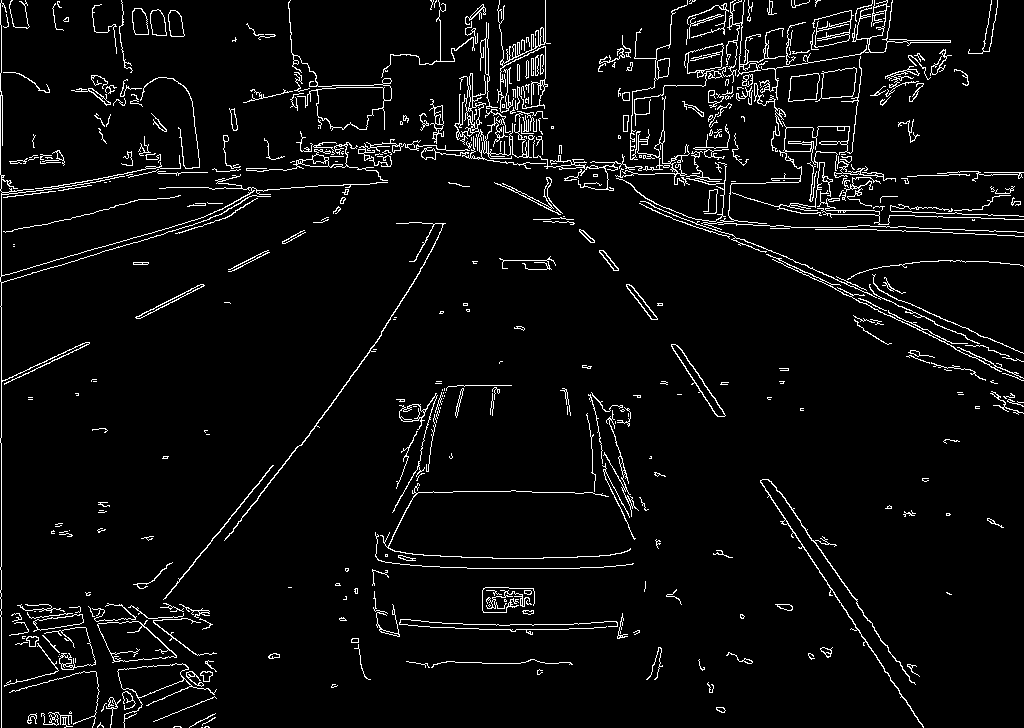
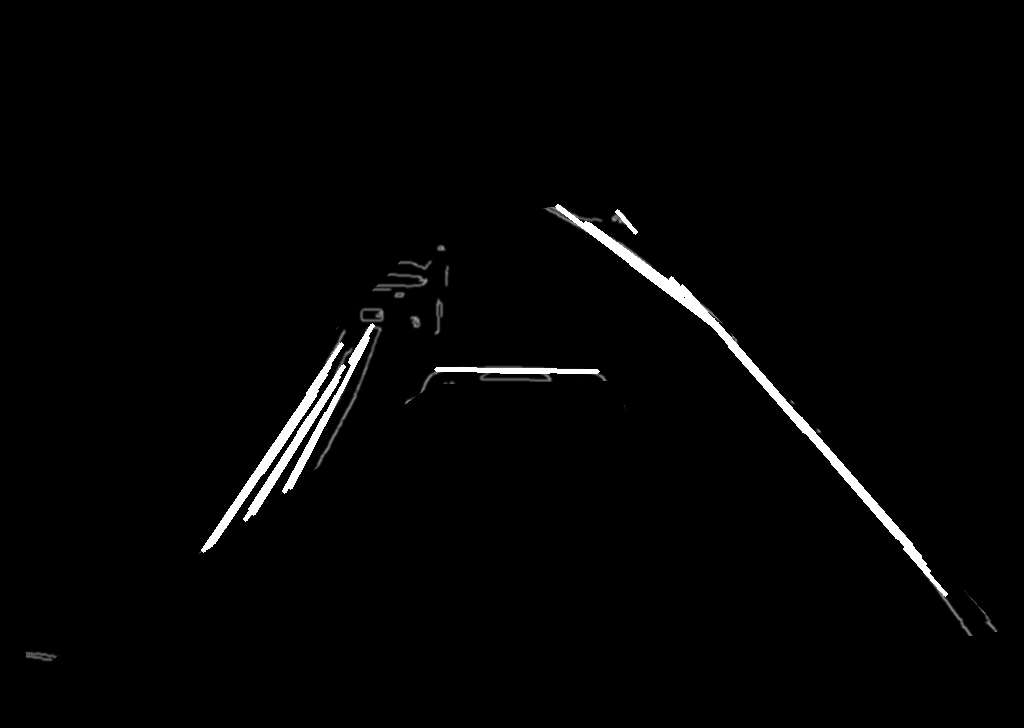
"Added an average and extrapolating function for lanes"

diff --git a/main.py b/main.py
@@ -5,22 +5,63 @@ import cv2
 from IPython.display import Image
 import pyautogui
 from directkeys import PressKey, W, A, S, D
+import math
 
-def draw_lanes(img, lines, color=[0, 200, 0], thickness=3):
+def mathfunc(x1,y1,x2,y2):
 
-    if lines is not None:
+    slope = (y2-y1)/(x2-x1)
+    intercept = y1 - slope*x1
+    line_length = np.sqrt((y2-y1)**2+(x2-x1)**2)
+    return(slope,intercept,line_length)
 
-        imG = np.copy(img)
-        line_img = np.zeros((img.shape[0], img.shape[1], 3), dtype=np.uint8,)
-        # Loop over all lines and draw them on the blank image.
-        for line in lines:
-            for x1, y1, x2, y2 in line:
-                cv2.line(line_img, (x1, y1), (x2, y2), color, thickness)
+def to_keep_index(obs, std=1.5):
+    return np.array(abs(obs - np.mean(obs)) < std*np.std(obs))
 
-        img = cv2.addWeighted(img, 0.8, line_img, 1.0, 0.0)
-        return(img)
-    else:
-        return
+def avg_lines(image,lines):
+
+    neg = np.empty([1,3])
+    pos = np.empty([1,3])
+
+    ## calculate slopes for each line to identify the positive and negative lines
+    for line in lines:
+        for x1,y1,x2,y2 in line:
+            slope,intercept,line_length = mathfunc(x1,y1,x2,y2)
+            if slope < 0 and line_length > 10:
+                neg = np.append(neg,np.array([[slope, intercept, line_length]]),axis = 0)
+            elif slope > 0 and line_length > 10:
+                pos = np.append(pos,np.array([[slope, intercept, line_length]]),axis = 0)
+
+    ## just keep the observations with slopes with 2 std dev
+    neg = neg[to_keep_index(neg[:,0])]
+    pos = pos[to_keep_index(pos[:,0])]
+
+    ## weighted average of the slopes and intercepts based on the length of the line segment
+    neg_lines = np.dot(neg[1:,2],neg[1:,:2])/np.sum(neg[1:,2]) if len(neg[1:,2]) > 0 else None
+    pos_lines = np.dot(pos[1:,2],pos[1:,:2])/np.sum(pos[1:,2]) if len(pos[1:,2]) > 0 else None
+
+    AvgPositiveM  = pos_lines[0]
+    AvgLeftB      = pos_lines[1]
+    AvgNegitiveM  = neg_lines[0]
+    AvgRightB     = neg_lines[1]
+
+    imshape = image.shape
+    y_max   = imshape[0] # lines initial point at bottom of image
+    y_min   = 200
+
+    x1_Left = (y_max - AvgLeftB)/AvgPositiveM
+    y1_Left = y_max
+    x2_Left = (y_min - AvgLeftB)/AvgPositiveM
+    y2_Left = y_min
+
+    x1_Right = (y_max - AvgRightB)/AvgNegitiveM
+    y1_Right = y_max
+    x2_Right = (y_min - AvgRightB)/AvgNegitiveM
+    y2_Right = y_min
+
+    # define average left and right lines
+    cv2.line(image, (int(x1_Left), int(y1_Left)), (int(x2_Left), int(y2_Left)), [0,200,0], 10) #avg Left Line
+    cv2.line(image, (int(x1_Right), int(y1_Right)), (int(x2_Right), int(y2_Right)), [0,200,0], 10) #avg Right Line
+
 
 def draw_lines(img,lines):
     try:
@@ -29,6 +70,7 @@ def draw_lines(img,lines):
             cv2.line(img, (coords[0], coords[1]), (coords[2], coords[3]), [255,255,255], 3)
     except:
         pass
+
 
 def roi(img, vertices):
     mask = np.zeros_like(img)
@@ -41,22 +83,24 @@ def image_process(image):
 
     processedImage = cv2.cvtColor(image, cv2.COLOR_BGR2GRAY)
     processedImage =  cv2.Canny(processedImage, threshold1 = 100, threshold2=300)
-    cv2.imwrite('pre.png', processedImage)
+
     # For 3rd person vertices = np.array([[200,1000],[150,450],[400,225],[800,225],[850,450],[850,700],], np.int32)
     #From hood of car
-    vertices = np.array([[10,600],[50,500],[400,160],[600,160],[815,500],[850,600],], np.int32)
+    #vertices = np.array([[10,650],[100,500],[400,200],[625,200],[815,500],[850,650],], np.int32)
+    vertices = np.array([[433,383],[30,675],[25,650],[440,220],[610,200],[1000,630],[720,675],[615,380],], np.int32)
     processedImage = cv2.GaussianBlur(processedImage,(5,5),0)
     processedImage = roi(processedImage, [vertices])
 
     lines = cv2.HoughLinesP(processedImage, 1, np.pi/180, 180, 20, 15)
+
     draw_lines(processedImage,lines)
-
-
-
+    cv2.imwrite('pre.png', processedImage)
 
     line_image = draw_lanes(originalImage, lines)
+    avg_lines(originalImage, lines)
 
-    return(line_image)
+
+    return(originalImage)
 
 
 def screen_record():
@@ -69,14 +113,14 @@ def screen_record():
         cv2.imwrite('processedImage.png', new_screen)
         num_seconds = time.time() - last_time
         print(num_seconds)
-        if num_seconds > 3:
+        if num_seconds > 2:
             break
         # if cv2.waitKey(25) & 0xFF == ord('q'):
         #     cv2.destroyAllWindows()
         #     break
 
 def main():
-    for i in range(3,0,-1):
+    for i in range(2,0,-1):
         print(i)
         time.sleep(1)
 
